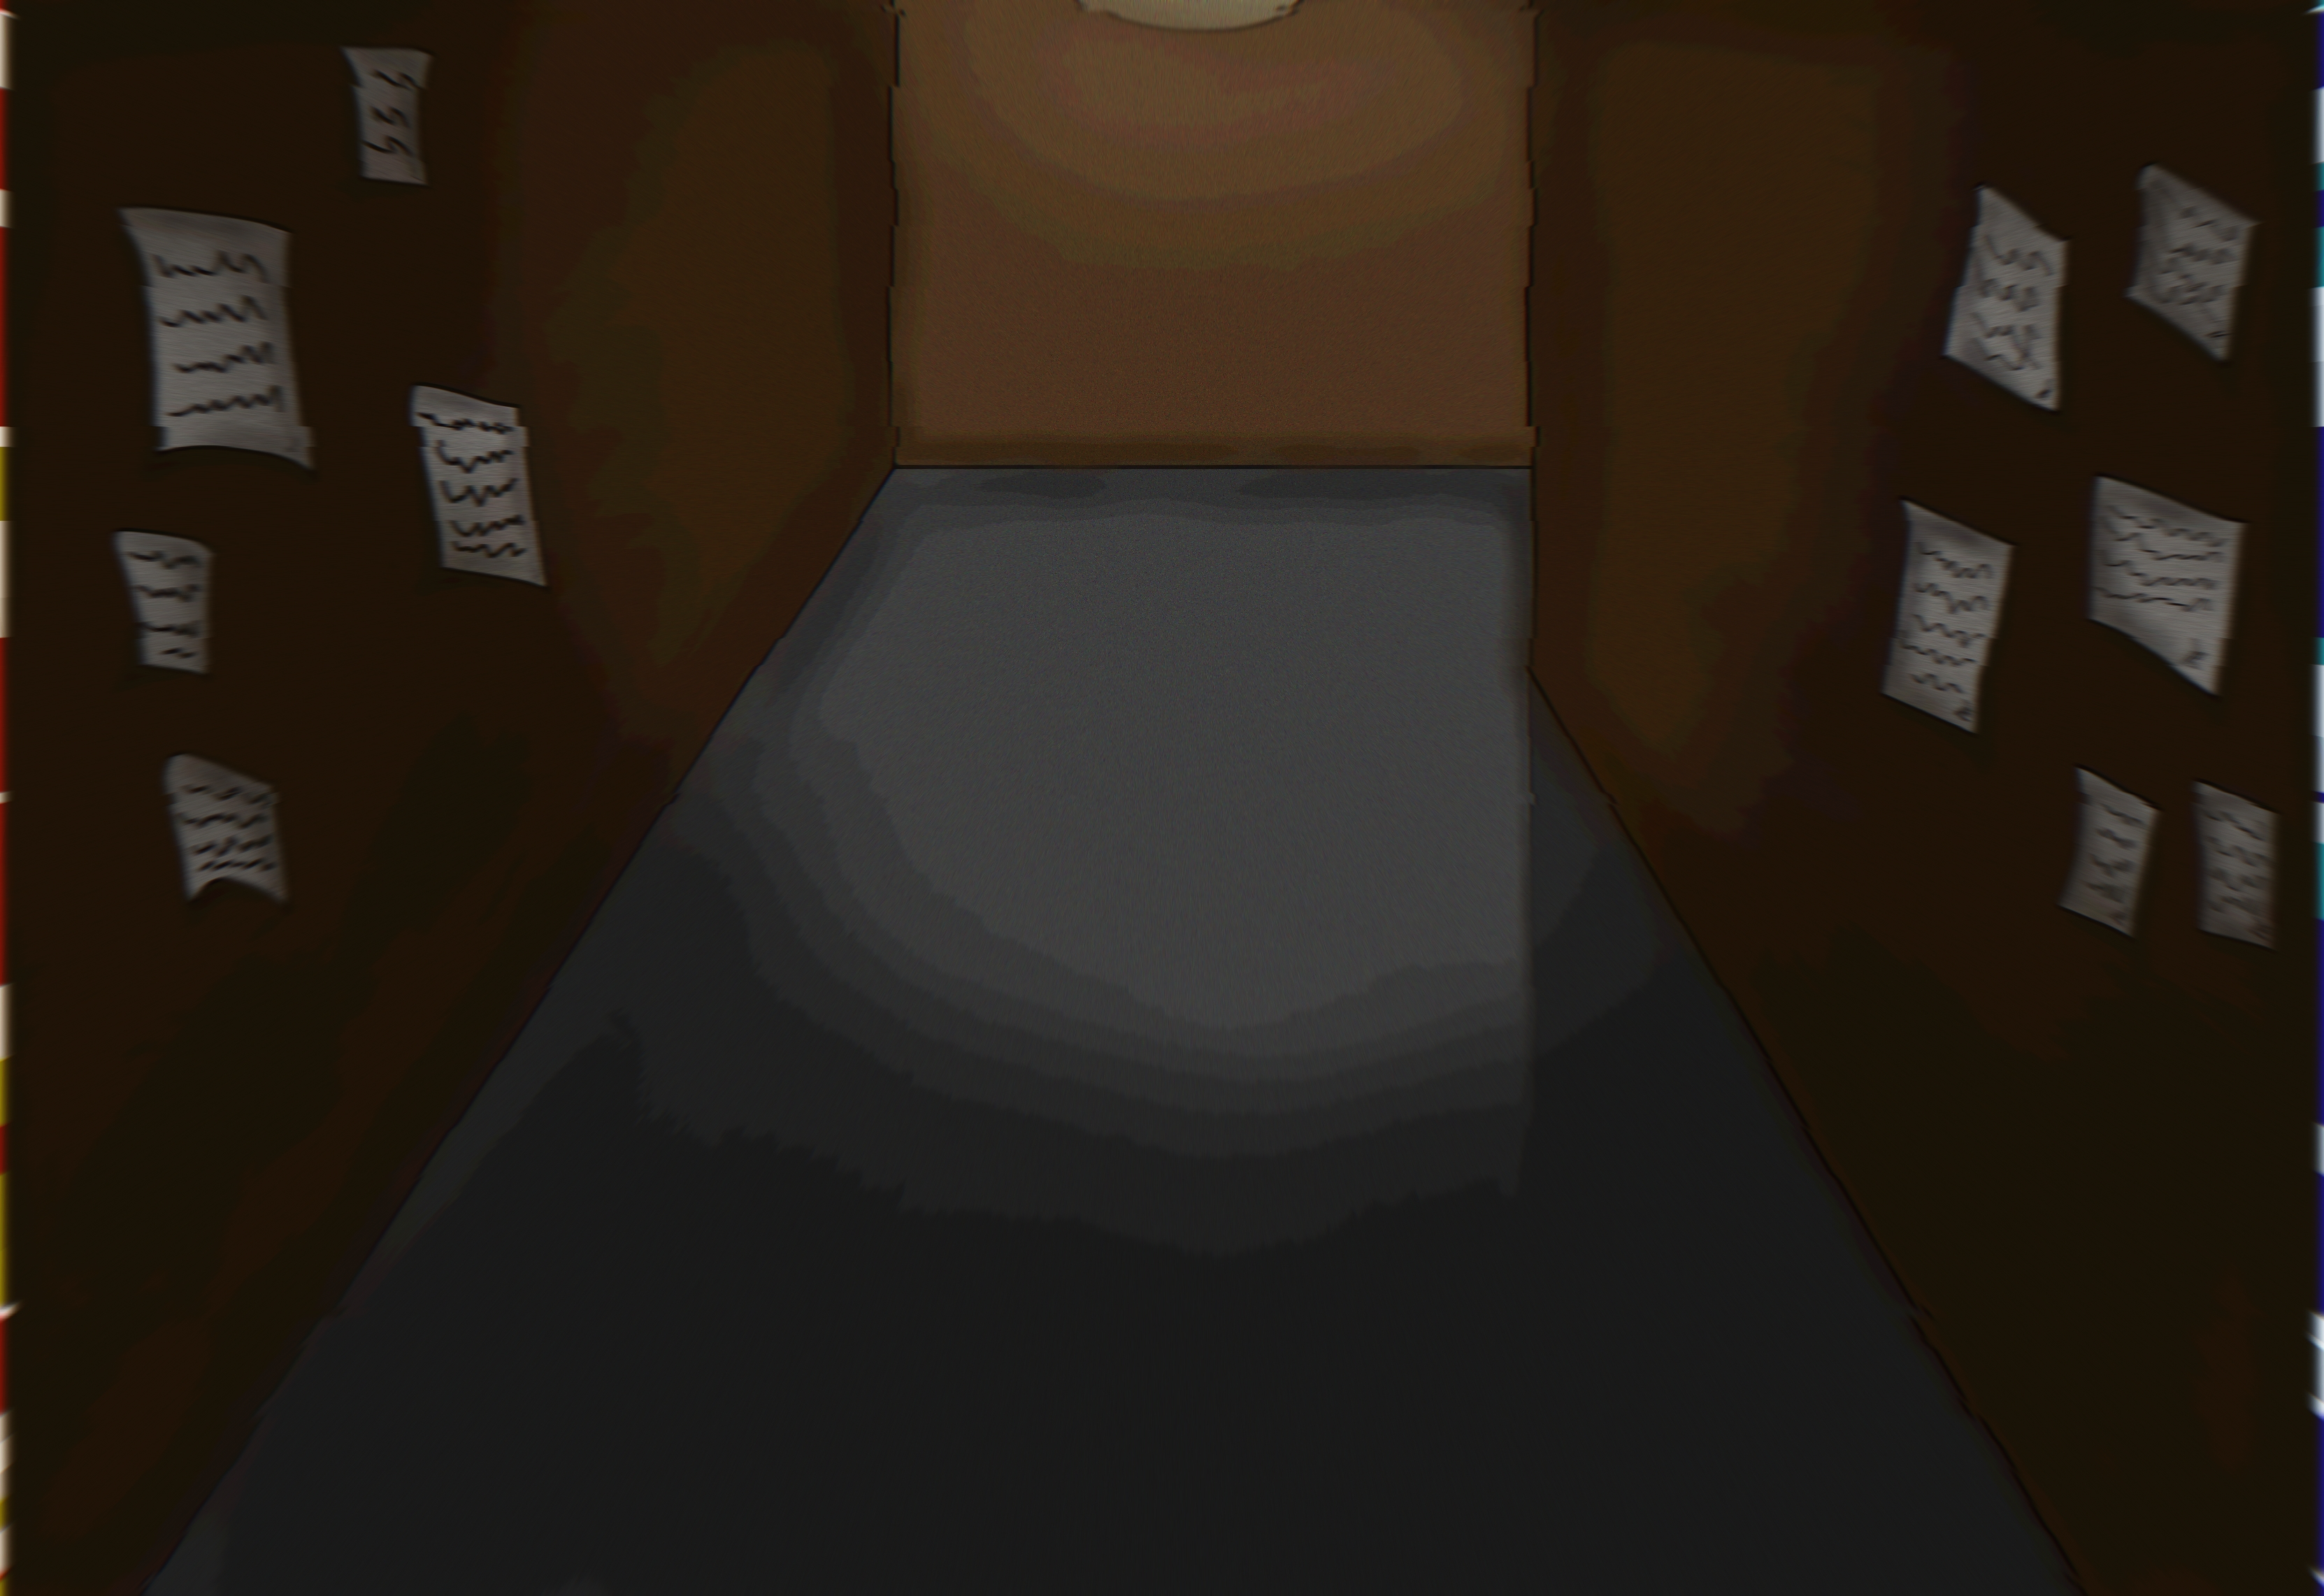
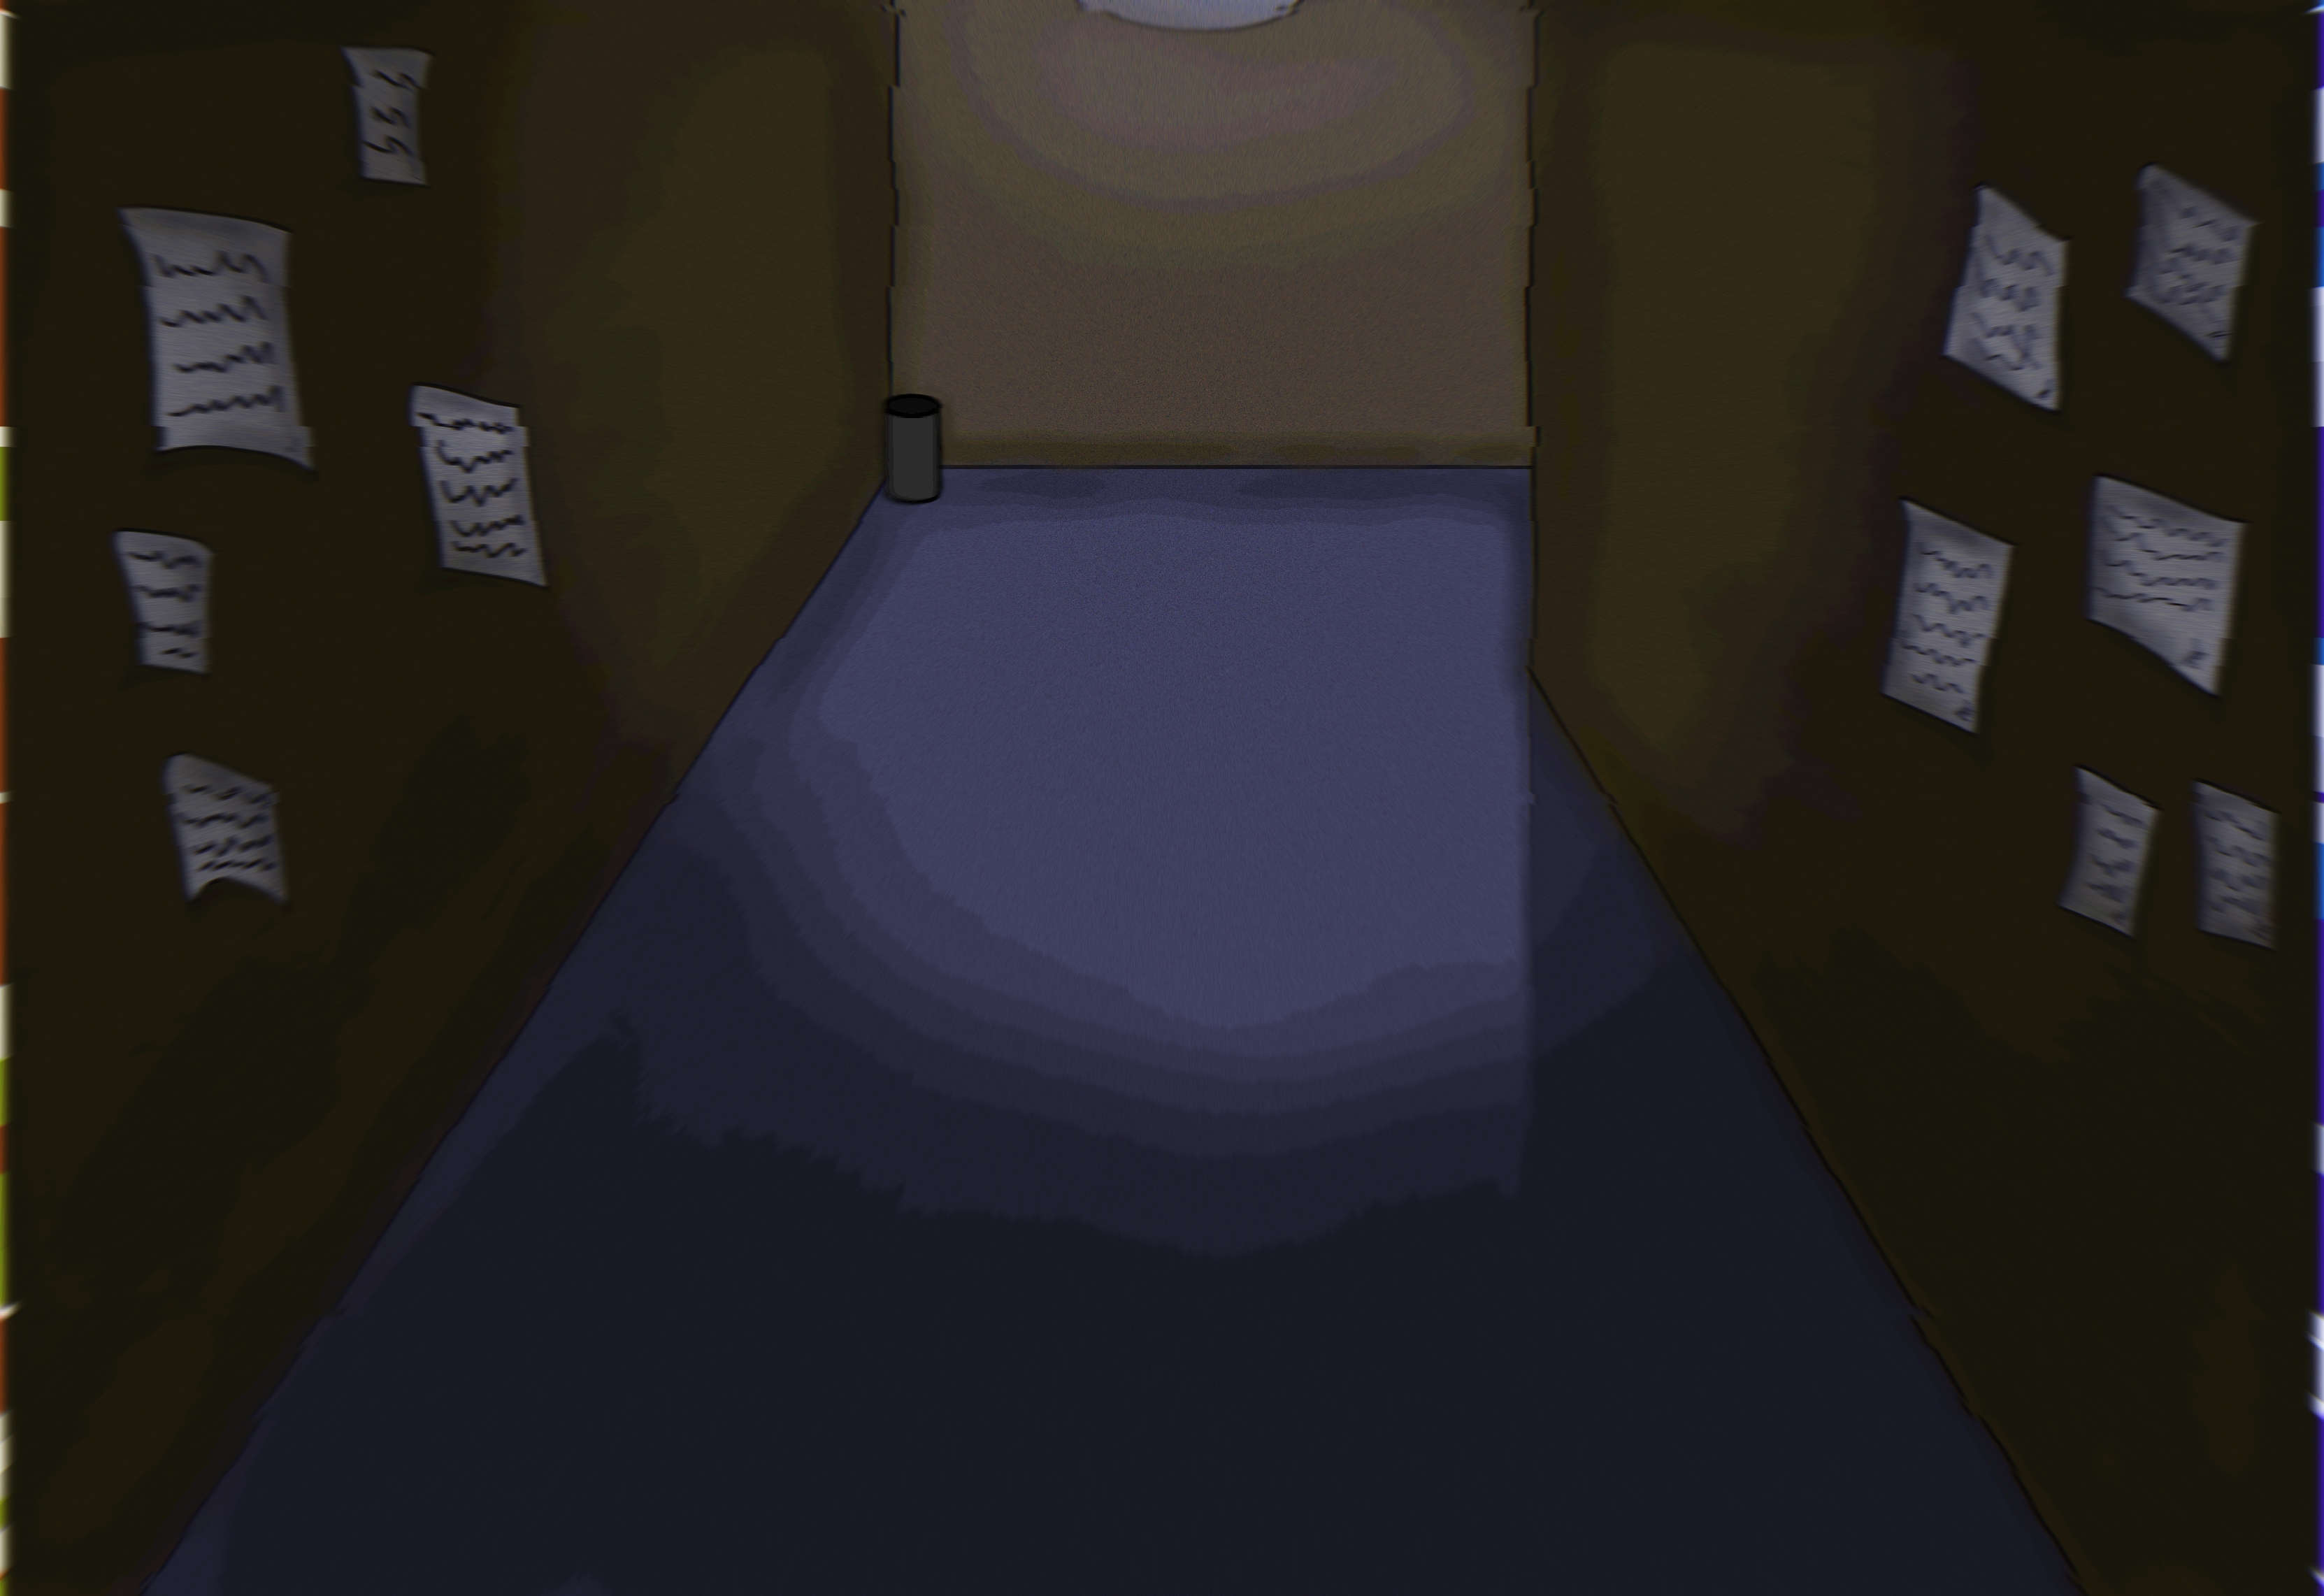
added: jumpscare for ghost and fixed logic, new image for right_hall, update bonnie logic

diff --git a/src/entity/Ghost.java b/src/entity/Ghost.java
@@ -9,24 +9,37 @@ public class Ghost extends Animatronic {
         if (now < timeToNextMove) {
             return;
         }
-        timeToNextMove = now + randomDelay(2000, 3000);
+        if (timeToNextMove != 1)  {
+            timeToNextMove = now + randomDelay(2000, 3000);
+        }
         double chance = Math.random();
 
         switch (position) {
             case SCENE:
                 if (chance < CHANCE && GamePanel.inTablet) {
                     position = Position.OFFICE;
-                    System.out.println("пришел");
+                    timeToNextMove = 1;
                 }
                 break;
             case OFFICE:
                 if (GamePanel.inTablet) {
-                    System.out.println("ушел");
-                    position = Position.SCENE;
+                    if (playerSeenGhost) {
+                        playerSeenGhost = false;
+                        position = Position.SCENE;
+                    }
+                    else {
+                        timeToNextMove = 1;
+                    }
                 }
                 else {
-                    System.out.println("напугал");
-                    position = Position.JUMPSCARE;
+                    if (timeToNextMove == 1) {
+                        playerSeenGhost = true;
+                        timeToNextMove = now + 1300;
+                    }
+                    else {
+                        position = Position.JUMPSCARE;
+                    }
+
                 }
                 break;
             case JUMPSCARE:

diff --git a/src/main/Draw.java b/src/main/Draw.java
@@ -99,7 +99,8 @@ public class Draw {
             cam5 = ImageIO.read(new File("assets\\cameras\\cam5.PNG"));
             cam6 = ImageIO.read(new File("assets\\cameras\\cam6.PNG"));
             jumpscareFreddy = ImageIO.read(new File("assets\\freddy\\jumpscare.JPG"));;
-            jumpscareBonnie = ImageIO.read(new File("assets\\bonnie\\jumpscare.JPG"));;
+            jumpscareBonnie = ImageIO.read(new File("assets\\bonnie\\jumpscare.JPG"));
+            jumpscareGhost = ImageIO.read(new File("assets\\ghost\\jumpscare.PNG"));
         } catch (IOException e) {
             throw new RuntimeException(e);
         }
@@ -138,20 +139,15 @@ public class Draw {
     static public void jumpscare(Graphics2D g2, Animatronic animatronic, BufferedImage image, int value) {
         if (animatronic.position == Position.JUMPSCARE) {
             Random rand = new Random();
-            if (value == 0) {
-                g2.drawImage(image, 0, 0, SCREEN_WIDTH, SCREEN_HEIGHT, null);
-            }
-            else {
-                int randInt1 = rand.nextInt(-value, value);
-                int randInt2 = rand.nextInt(-value, value);
-                int startPoint = rand.nextInt(-value, 0);
-                g2.drawImage(image, startPoint, startPoint, SCREEN_WIDTH + value * 3 + randInt1, SCREEN_HEIGHT + value * 2 + randInt2, null);
-            }
+            int randInt1 = rand.nextInt(-value, value);
+            int randInt2 = rand.nextInt(-value, value);
+            int startPoint = rand.nextInt(-value, 0);
+            g2.drawImage(image, startPoint, startPoint, SCREEN_WIDTH + value * 3 + randInt1, SCREEN_HEIGHT + value * 2 + randInt2, null);
         }
     }
     static public void jumpscares(Graphics2D g2, int value) {
         jumpscare(g2, GamePanel.bonnie, jumpscareBonnie, value - 70);
         jumpscare(g2, GamePanel.freddy, jumpscareFreddy, value);
-        jumpscare(g2, GamePanel.ghost, jumpscareFreddy, 0);
+        jumpscare(g2, GamePanel.ghost, jumpscareGhost, value - 95);
     }
 }

diff --git a/src/entity/Bonnie.java b/src/entity/Bonnie.java
@@ -9,8 +9,9 @@ public class Bonnie extends Animatronic {
         if (now < timeToNextMove) {
             return;
         }
-
-        timeToNextMove = now + randomDelay(3000, 5000);
+        if (timeToNextMove != 1)  {
+            timeToNextMove = now + randomDelay(3000, 5000);
+        }
         double chance = Math.random();
 
         switch (position) {
@@ -22,11 +23,14 @@ public class Bonnie extends Animatronic {
             case HALL:
                 if (chance < CHANCE) {
                     position = Position.LEFT_HALL;
+                    timeToNextMove = now + 2000;
                 }
                 break;
             case LEFT_HALL:
-                if (chance < CHANCE) {
+                timeToNextMove = 1;
+                if (GamePanel.inTablet) {
                     position = Position.OFFICE;
+                    timeToNextMove = now + randomDelay(3000, 5000);
                 }
                 break;
             case OFFICE:

diff --git a/src/entity/Animatronic.java b/src/entity/Animatronic.java
@@ -3,6 +3,7 @@ package entity;
 public class Animatronic {
     public Position position = Position.SCENE;
     long timeToNextMove;
+    boolean playerSeenGhost = false;
 
     public long randomDelay(int minMs, int maxMs) {
         return minMs + (long) (Math.random() * (maxMs - minMs));